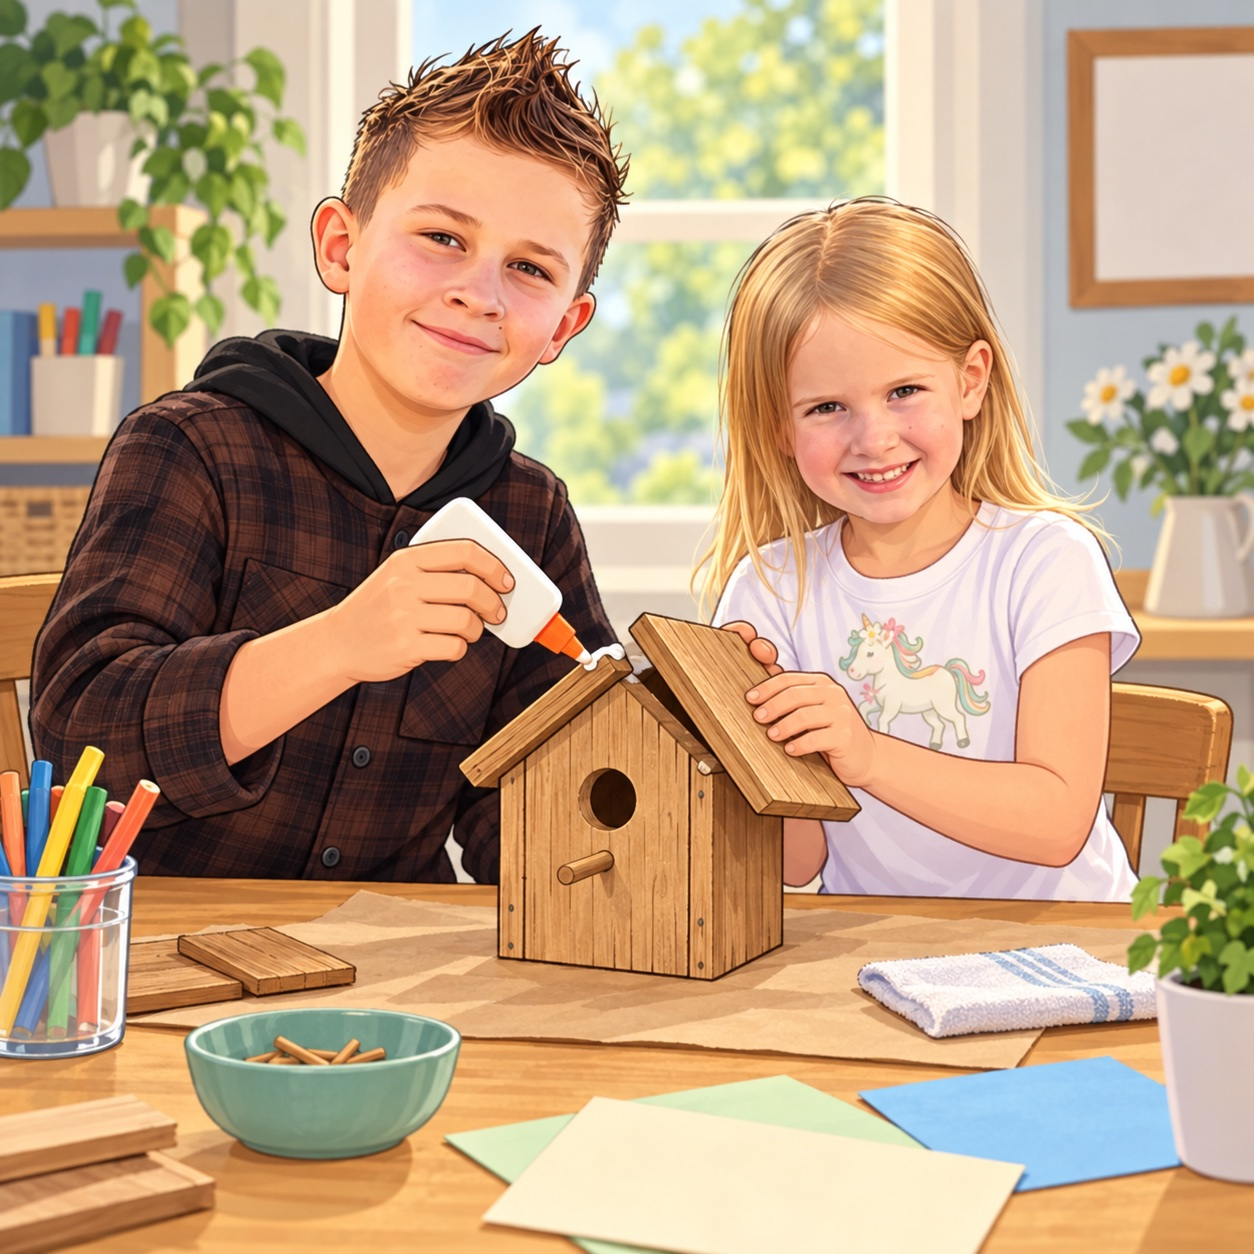
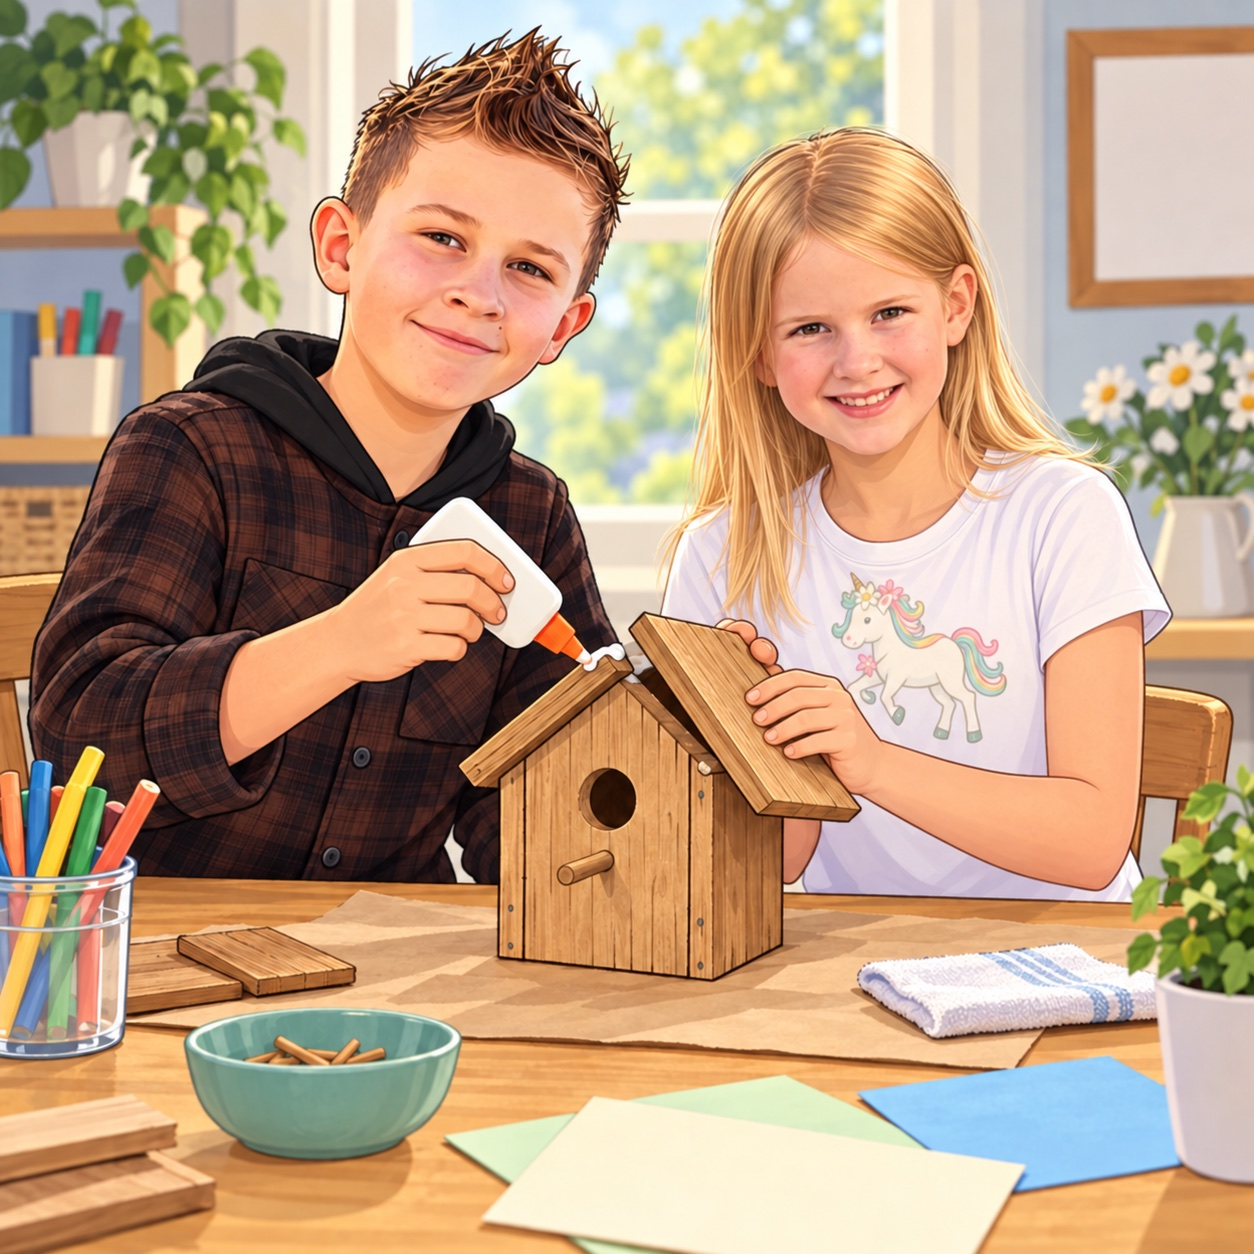
Make Alyda older in lesson illustration

diff --git a/marvellous-work-lesson.html b/marvellous-work-lesson.html
@@ -103,7 +103,7 @@
   <section class="step" id="restore">
     <div class="stephead"><span class="number">05</span><h2>What does it mean to restore?</h2><span class="time">5 minutes</span></div>
     <p>Hold your hands apart like a broken object. As the class names each step, bring them closer: notice what is wrong, find the missing part, repair it, use it again.</p>
-    <figure class="kid-card single"><button class="picture" type="button" aria-label="Enlarge illustration of Cole and Alyda repairing a birdhouse"><img src="assets/marvellous-work-lesson/restoring-birdhouse.jpg" alt="Cartoon illustration of Cole and Alyda restoring a wooden birdhouse" loading="lazy" width="1256" height="1256"></button><figcaption><b>Cole and Alyda restore a birdhouse</b>They do not pretend it was never broken. They bring the pieces back together and make it useful again.</figcaption></figure>
+    <figure class="kid-card single"><button class="picture" type="button" aria-label="Enlarge illustration of Cole and Alyda repairing a birdhouse"><img src="assets/marvellous-work-lesson/restoring-birdhouse.jpg?v=2" alt="Cartoon illustration of Cole and Alyda restoring a wooden birdhouse" loading="lazy" width="1256" height="1256"></button><figcaption><b>Cole and Alyda restore a birdhouse</b>They do not pretend it was never broken. They bring the pieces back together and make it useful again.</figcaption></figure>
     <div class="restore-grid"><div class="restore-card"><strong>Restore is more than replace.</strong>The Lord does not throw people away when they are hurt or when they make mistakes.</div><div class="restore-card"><strong>Restoration takes love and work.</strong>Jesus heals, forgives, teaches, and patiently helps us become whole.</div></div>
     <div class="question"><b>Try one example</b><p>A friendship has been hurt by an unkind joke. What might “restoring” it look like? Tell the truth, apologize, repair what you can, and choose differently.</p></div>
   </section>
